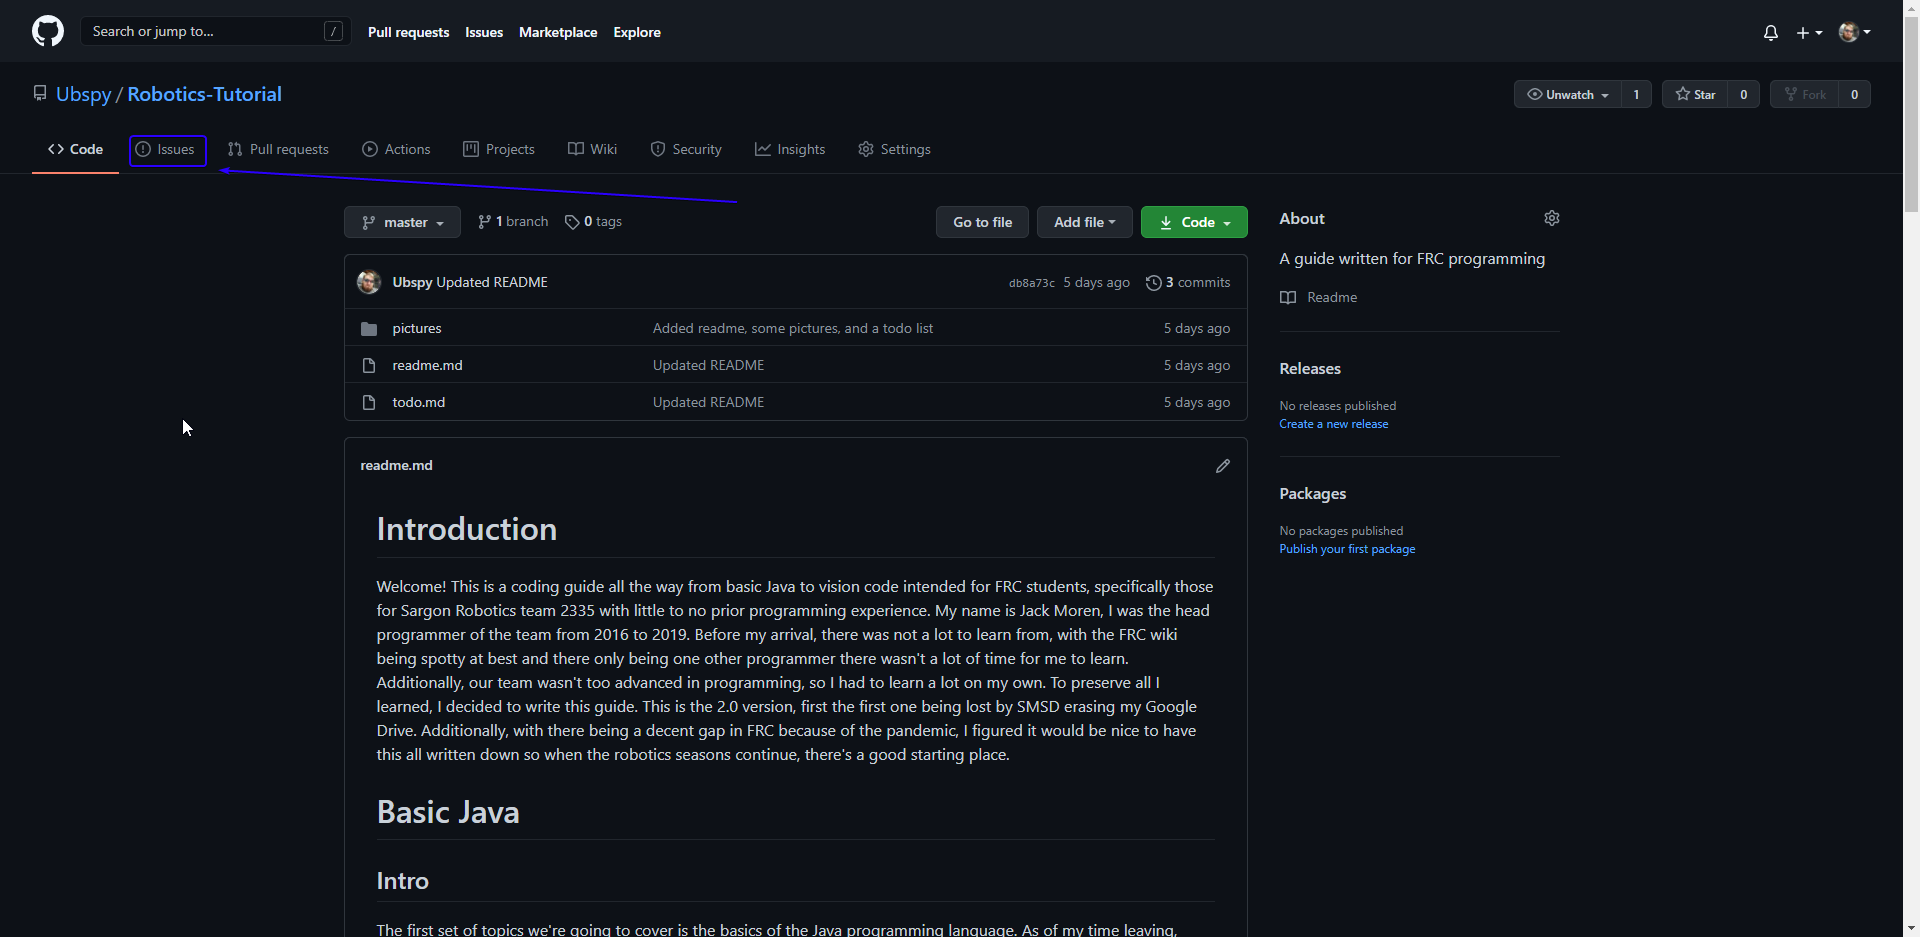
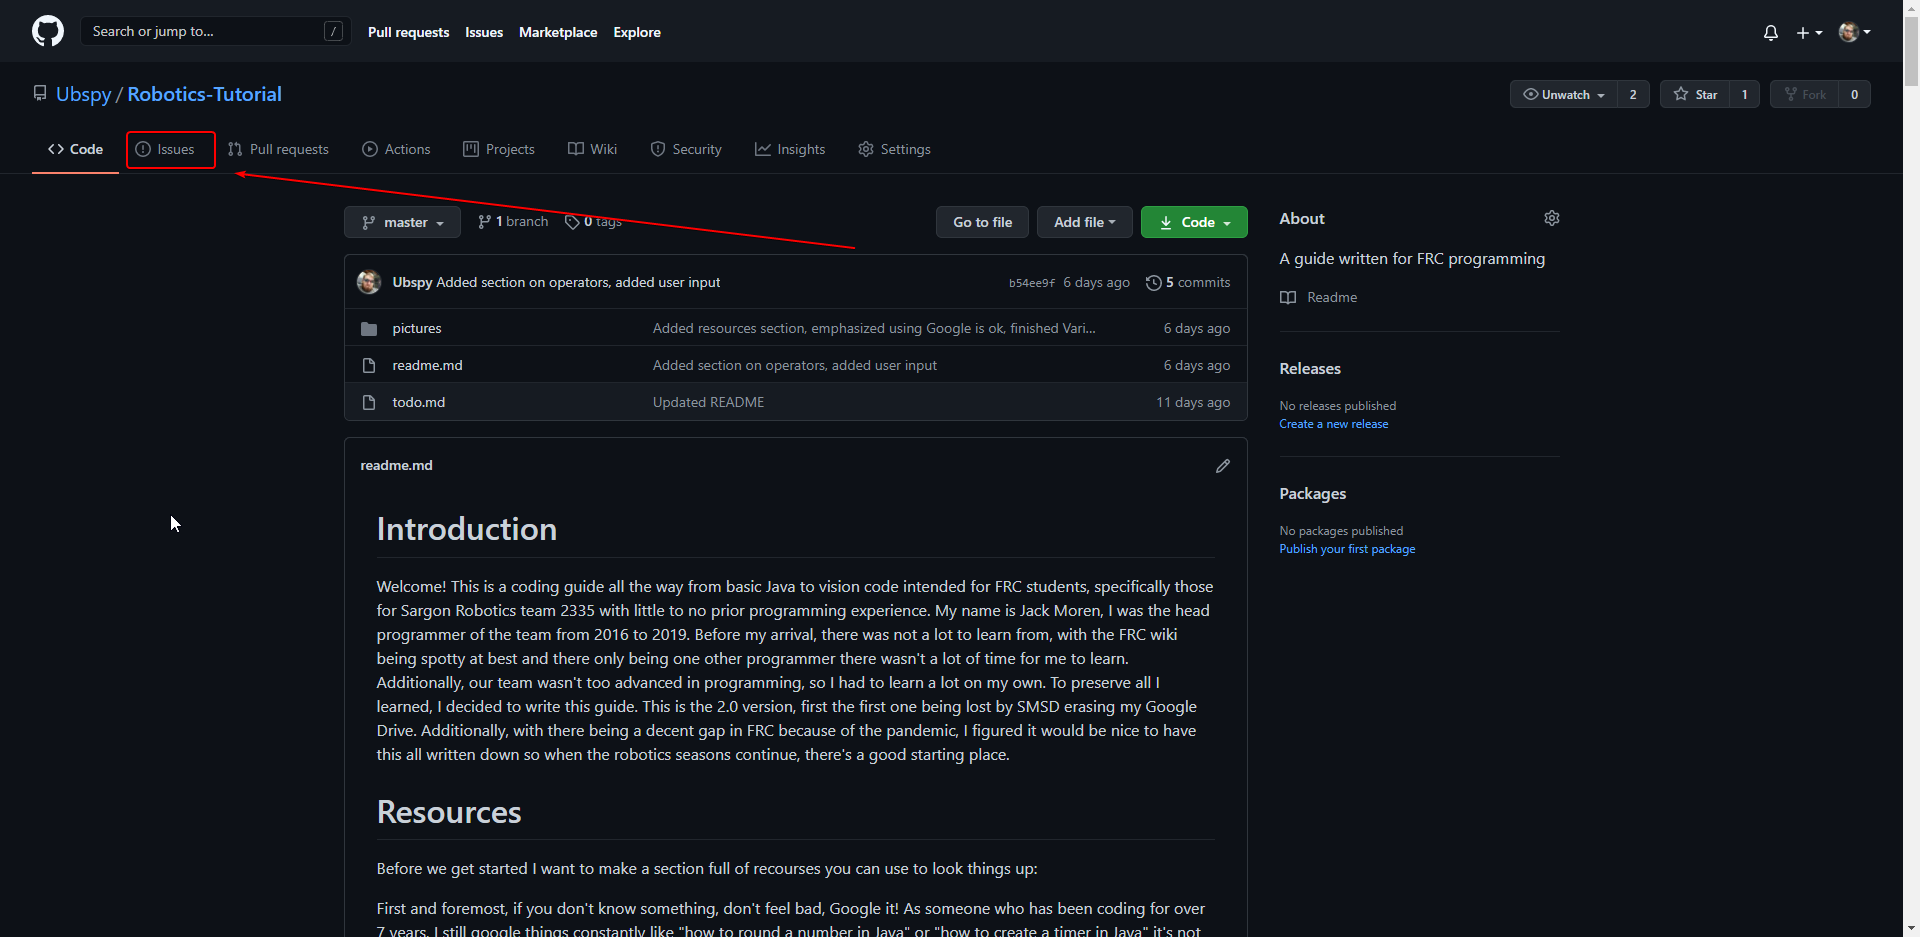
Changed arrow colors on dark background images, added brief note talking about viewing larger versions of images

diff --git a/readme.md b/readme.md
@@ -11,6 +11,7 @@ Second, when it comes to robotics stuff, look at [WPILIB](https://docs.wpilib.or
 For documentation, everything in the [WPILIB libraries](https://first.wpi.edu/FRC/roborio/release/docs/java/index.html) is really well documented. We'll talk more about documentation later but for now you can look up any class you need to use and get all the methods as well at what they do.
 
 The last bit I'll give, if you're confused about something, feel free to open up an issue on this repository. To do that, go to the top of the github page while looking at this repo (you should already be there) and click on the issues tab:
+Side note: if the pictures here are too small for you to see, just click on them, it'll open it up in a bigger size
 ![Issue](pictures/github-issue-1.png)
 
 Then click where is says `create new issue`:
@@ -260,5 +261,8 @@ class Main
 ```
 Look at that! We're getting somewhere! I think you know enough to where I can direct you to the exercises. 
 I'm too tired to continue, keep writing about how to access the exercies and then write the first one 
+
+## Comments
+
 
 ## Strings
